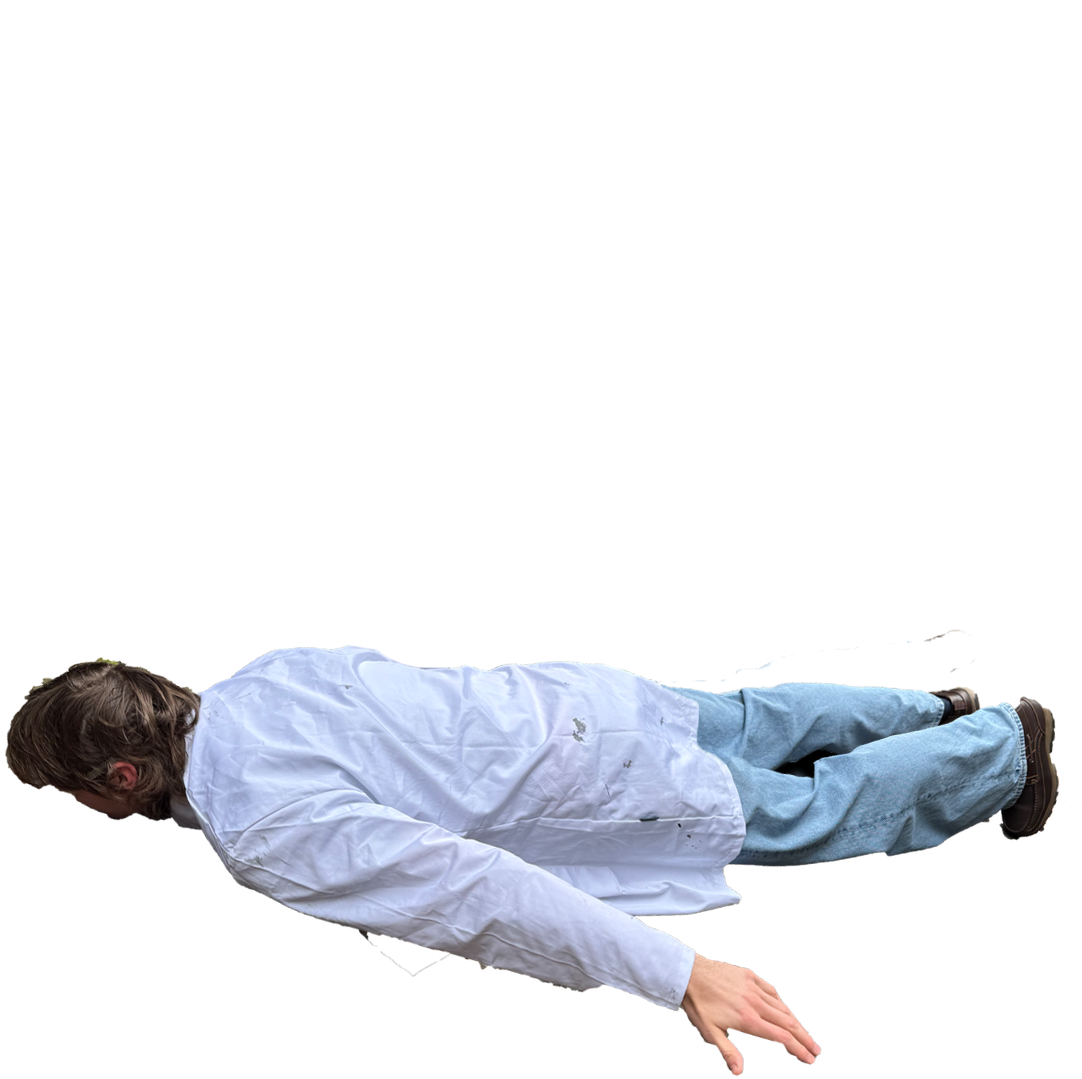
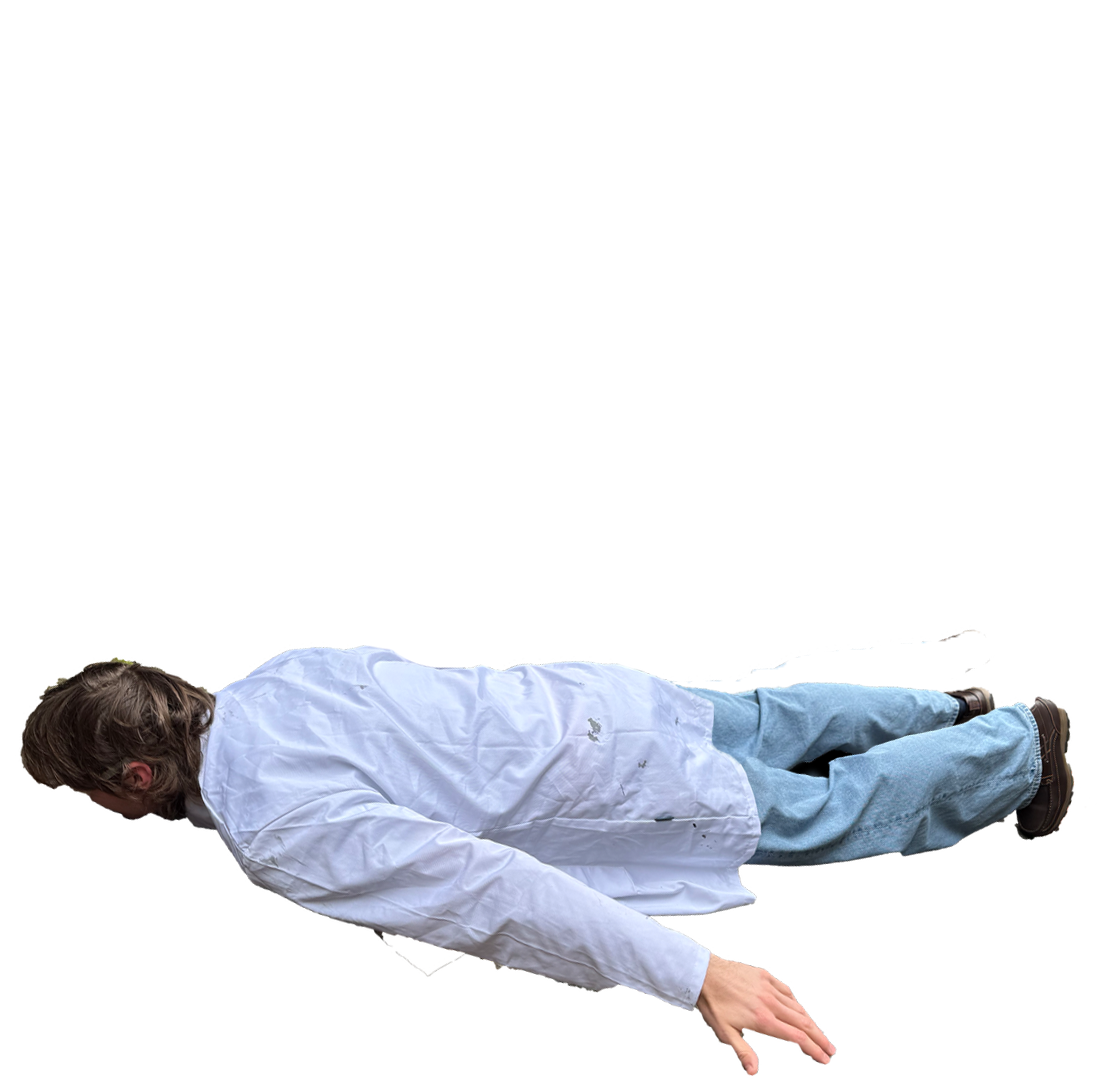
Forscher faellt beim Absturz bis zum Boden, Knoten im Editor sichtbar zum Hinziehen

diff --git a/ERKLAERUNG.md b/ERKLAERUNG.md
@@ -7094,3 +7094,40 @@ Vorher drei graue Kaesten (liegt, kniet, steht). Die drei grauen Verlaeufe dafue
 1. Warum haben beide Bilder denselben Ausschnitt?
 2. Was aendert `"duration": 2.0` am ersten Bild?
 3. Wie kommt man auf `position.y = 802`?
+
+### Nachtrag: Fallen bis zum Boden, und du ziehst den Forscher selbst hin (`skripte/spiel.gd`, `szenen/spiel.tscn`, 27.11.2026)
+
+Dein Wunsch: Beim Absturz bis auf den Boden faellt der Forscher (mit dem Verlauf nach oben, der staerker und schwaecher wird) und landet genau dort, wo du ihn im Godot-Editor hinziehst.
+
+**Die Bilder (`assets/forscher/aufstehen/`).** Neu sind `fallen-1.png` bis `fallen-6.png`: deine zwei Fallbilder in je drei Staerken, in der Reihenfolge aus Krita (4 mittel, 5 stark, 4 schwach, 5 mittel, 4 stark, 5 schwach). Alle acht Bilder (6 x Fallen, Aufprall, Knien) haben jetzt denselben Ausschnitt (1097 x 1079 Pixel). Darum liegen `aufprall.png` und `kniend.png` neu da, 15 Pixel breiter, sonst gleich. Der gemeinsame Ausschnitt heisst: Fallen, Aufprall und Knien sitzen zueinander so, wie du sie in Krita angeordnet hast. Ziehst du den Knoten, wandert alles zusammen.
+
+**`SpriteFrames_aufstehen` - zweite Animation `fallen`.** Neben `aufstehen` gibt es `fallen`: die sechs Bilder, `"speed": 12.0` (12 Bilder pro Sekunde, wie in der Krita-Datei), `"loop": true`. Weil sie sich wiederholt, meldet sie nie `animation_finished`. Das Spiel startet also nicht mitten im Fallen neu.
+
+**`Kanone/Aufstehen` - geaendert.** Die Zeile `visible = false` ist weg: Im Editor siehst du den Forscher jetzt und kannst ihn ziehen. `position` ist (136, 802), sechs Pixel weiter rechts als vorher, weil der Ausschnitt links breiter geworden ist. So liegt der Liegende an derselben Stelle.
+
+**`skripte/spiel.gd` - geaendert.**
+
+```gdscript
+	$Kanone/Aufstehen.visible = false
+```
+Neu in `_ready`. Weil der Knoten in der Szene sichtbar ist, wird er beim Spielstart versteckt.
+
+```gdscript
+		fallen()
+```
+Neu in `fliege_verlieren`, im Zweig `if flugkraft <= 0:`. Nur wenn man ganz abstuerzt, faellt der Forscher.
+
+```gdscript
+func fallen() -> void:
+	$Kanone/Arm.visible = false
+	$Kanone/Figur.visible = false
+	$Kanone/Aufstehen.visible = true
+	$Kanone/Aufstehen.play("fallen")
+```
+Neu. Kanone und graue Figur verschwinden, der Forscher erscheint und spielt `fallen`. Er haengt an der Kanone und faellt mit ihr nach unten. Kommt die Kanone unten an, ruft der Tween wie bisher `aufstehen()`, und das spielt `aufstehen`: Aufprall, dann Knien. Faengt man im Fallen noch eine Fliege, macht `aufstehen_abbrechen()` alles wieder rueckgaengig, wie vorher.
+
+**So ziehst du ihn hin.** In `spiel.tscn` den Knoten `Kanone` > `Aufstehen` auswaehlen und verschieben. Im Editor sieht man das Aufprallbild. Die Wiese liegt 1212 Pixel unter der Kanone.
+
+**So wurde es angeschaut.** Schnellcheck PASS fuer `spiel.gd`, Verify PASS. Probe: hochgesprungen, alles verloren, Bilder aufgenommen. Am Start ist der Forscher unsichtbar. Im Fallen laeuft `fallen`, er kommt beim Herauszoomen von unten ins Bild, dann liegt er und kniet. Nicht angeschaut: wie sich das im Spiel anfuehlt.
+
+**Fragen.** 1. Warum meldet `fallen` nie `animation_finished`? 2. Warum muessen alle acht Bilder denselben Ausschnitt haben? 3. Warum wird der Knoten in `_ready` versteckt und nicht in der Szene?
